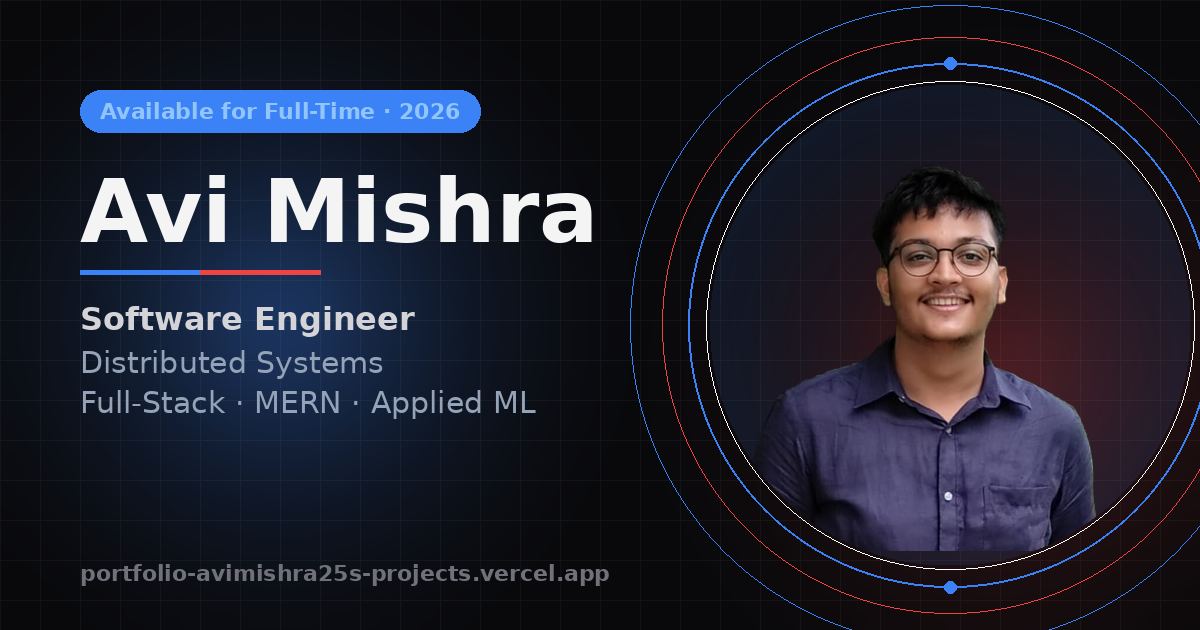
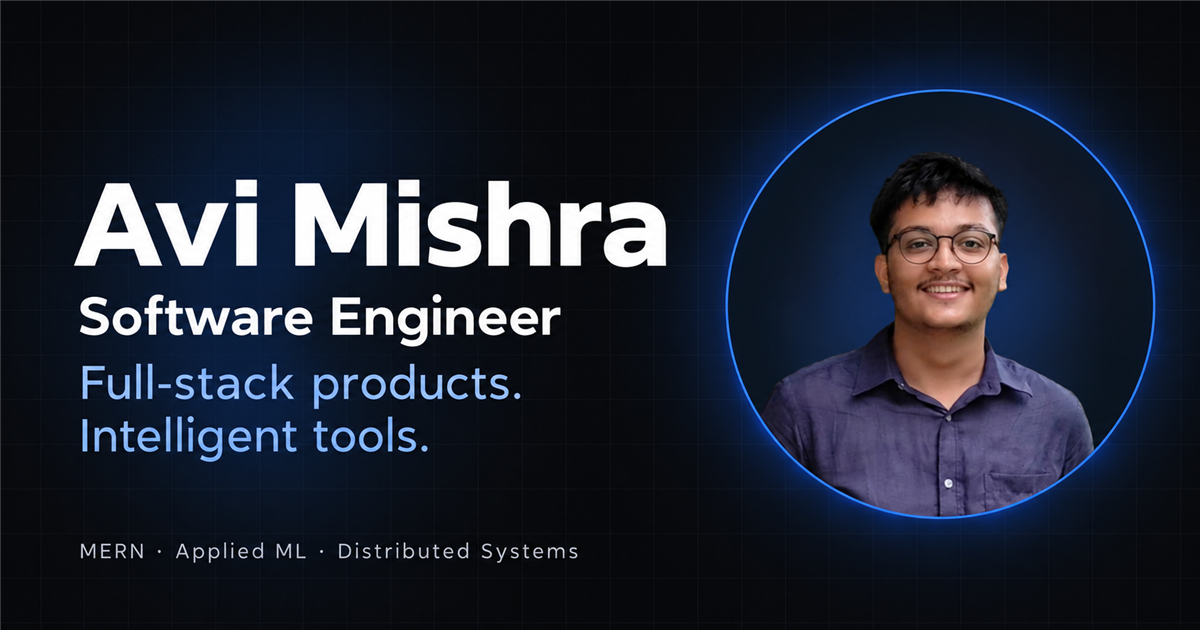
Refresh social preview image and remove availability badge

diff --git a/index.html b/index.html
@@ -32,7 +32,7 @@
       property="og:description"
       content="Distributed Systems · Full-Stack (MERN) · Applied ML. Final-year B.Tech CSE at PDEU. Explore my projects and get in touch."
     />
-    <meta property="og:image" content="https://portfolio-avimishra25s-projects.vercel.app/assets/og-image.png" />
+    <meta property="og:image" content="https://portfolio-avimishra25s-projects.vercel.app/assets/og-image.png?v=20261004" />
     <meta property="og:image:width" content="1200" />
     <meta property="og:image:height" content="630" />
     <meta property="og:image:alt" content="Avi Mishra — Software Engineer portfolio" />
@@ -47,7 +47,7 @@
       name="twitter:description"
       content="Distributed Systems · Full-Stack (MERN) · Applied ML. Final-year B.Tech CSE at PDEU."
     />
-    <meta name="twitter:image" content="https://portfolio-avimishra25s-projects.vercel.app/assets/og-image.png" />
+    <meta name="twitter:image" content="https://portfolio-avimishra25s-projects.vercel.app/assets/og-image.png?v=20261004" />
     <meta name="twitter:image:alt" content="Avi Mishra — Software Engineer portfolio" />
 
     <!-- Fonts -->
